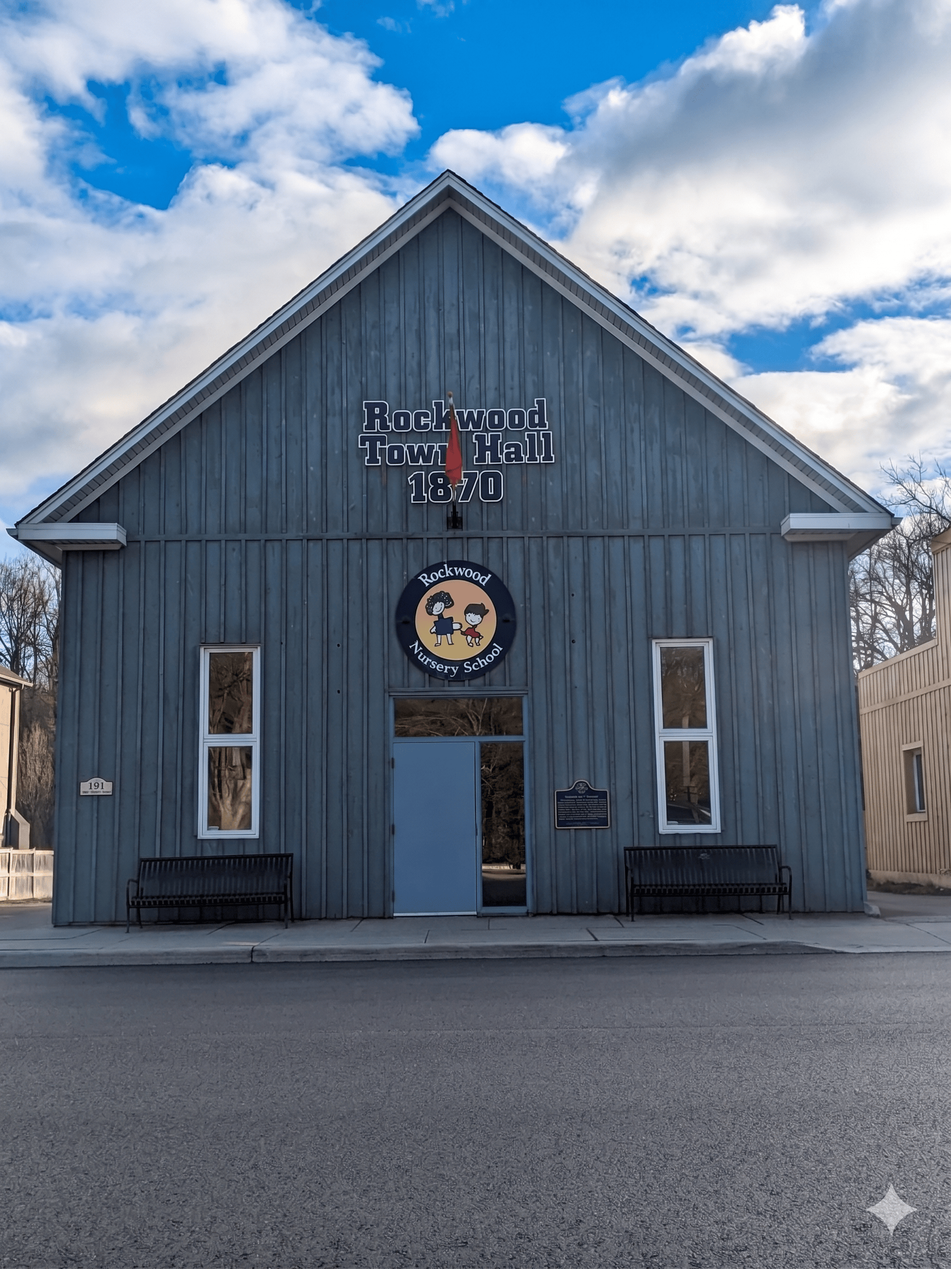
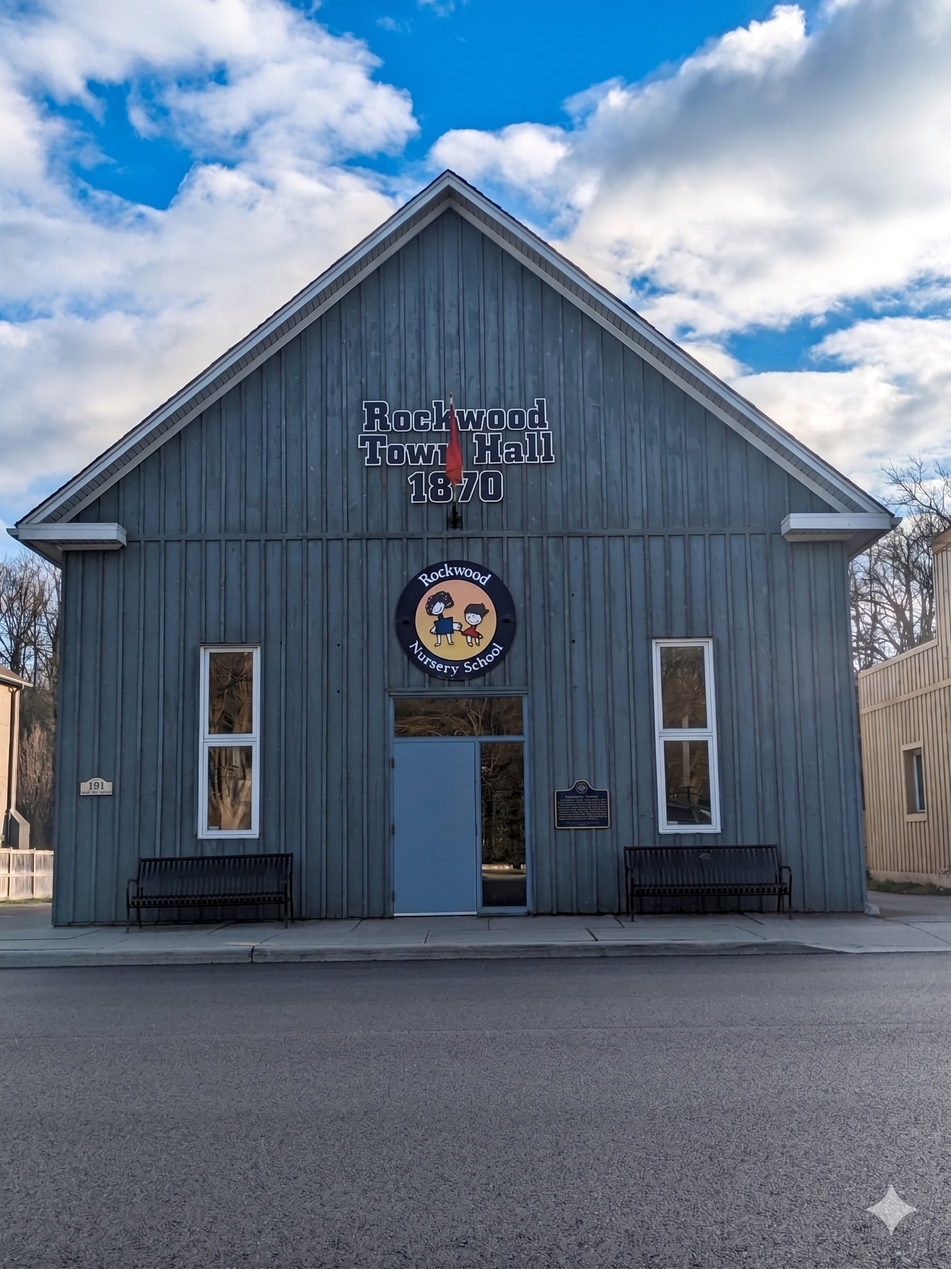
update images of school exterior and frame

diff --git a/style.css b/style.css
@@ -290,7 +290,7 @@ h2 {
 .contact-item a { color: var(--green); text-decoration: none; font-weight: 600; }
 .contact-map-block { background: white; border-radius: var(--radius); overflow: hidden; box-shadow: var(--shadow); }
 .map-image { height: 200px; overflow: hidden; }
-.map-image img { width: 100%; height: 100%; object-fit: cover; }
+.map-image img { width: 100%; height: 100%; object-fit: cover; display: block; }
 .map-info { padding: 20px 24px; }
 .map-info h3 { font-family: 'Fredoka One', cursive; color: var(--green); font-size: 1.2rem; margin-bottom: 4px; }
 .map-info p { font-size: 0.85rem; color: var(--text-light); margin-bottom: 14px; line-height: 1.5; }

diff --git a/index.html b/index.html
@@ -49,7 +49,7 @@
   }
   .exterior-img img {
     width: 100%; height: 100%;
-    object-fit: cover; object-position: center 70%;
+    object-fit: cover; object-position: center 42%;
     display: block;
   }
   .exterior-content {
@@ -409,7 +409,7 @@
     </div>
     <div class="contact-map-block">
       <div class="map-image">
-        <img src="images/school-exterior.png" alt="Rockwood Town Hall">
+        <img src="images/school-exterior.png" alt="Rockwood Town Hall" style="object-position: center 38%;">
       </div>
       <div class="map-info">
         <h3>📍 Town Hall, Rockwood</h3>
